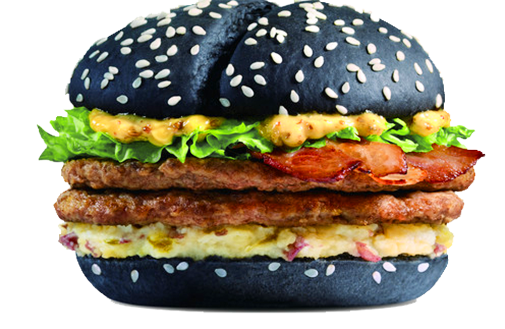
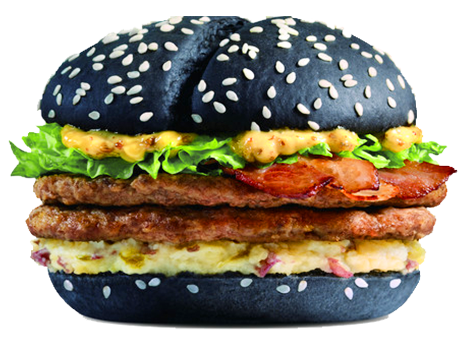
Adaptive slider in work

diff --git a/index.html b/index.html
@@ -205,9 +205,15 @@
                   <div class="hover__close"></div>
                 </div>
               </div>
-              <div class="slider__image">
-                <img class="slider__pic" src="images/burgers/black_burger.png" alt="hit">
-              </div>
+               <div class="slider__display">
+                <ul class="slider__list">
+                  <li class="slider__item"><img src="images/burgers/black_burger.png" alt=""></li>
+                  <li class="slider__item"><img src="images/burgers/bacon_cheeseburger.png" alt=""></li>
+                  <li class="slider__item"><img src="images/burgers/burger_sandwitch.png" alt=""></li>
+                  <li class="slider__item"><img src="images/burgers/chicken_burger.png" alt=""></li>
+                  <li class="slider__item"><img src="images/burgers/spicy_shrimp_burger.png" alt=""></li>
+                </ul>
+              </div> 
               <div class="slider__calories">
                 <div class="slider__calories-picture">
                   <svg class="slider__calories-icon" style="fill:#fff;">

diff --git a/css/main.css b/css/main.css
@@ -1092,7 +1092,7 @@ footer {
       -ms-flex-align: center;
       align-items: center; } }
 
-.slider__image {
+.slider__display {
   display: -webkit-box;
   display: -webkit-flex;
   display: -ms-flexbox;
@@ -1109,7 +1109,33 @@ footer {
   -webkit-box-direction: normal;
   -webkit-flex-direction: row;
   -ms-flex-direction: row;
-  flex-direction: row; }
+  flex-direction: row;
+  border: 1px solid black;
+  max-width: 500px; }
+
+.slider__list {
+  height: 21.5625rem;
+  white-space: nowrap;
+  font-size: 0;
+  list-style: none;
+  -webkit-transform: translateX(-400%);
+  -ms-transform: translateX(-400%);
+  transform: translateX(-400%);
+  padding: 0;
+  margin: 0; }
+
+.slider__item {
+  width: 100%;
+  height: 100%;
+  display: -webkit-inline-box;
+  display: -webkit-inline-flex;
+  display: -ms-inline-flexbox;
+  display: inline-flex;
+  -webkit-box-pack: center;
+  -webkit-justify-content: center;
+  -ms-flex-pack: center;
+  justify-content: center;
+  text-align: center; }
 
 .slider__pic {
   max-height: 100%;

diff --git a/css/sections/burgers.scss b/css/sections/burgers.scss
@@ -20,8 +20,29 @@
   }
 }
 
-.slider__image {
+.slider__display {
   @include flex;
+  // overflow: hidden;
+  border: 1px solid black;
+  max-width: 500px;
+}
+
+.slider__list {
+  height: rem(345px);
+  white-space: nowrap;
+  font-size: 0;
+  list-style: none;
+  transform: translateX(-400%);
+  padding: 0;
+  margin: 0;
+} 
+
+.slider__item {
+  width: 100%;
+  height: 100%;
+  display: inline-flex;
+  justify-content: center;
+  text-align: center;
 }
 
 .slider__pic {
